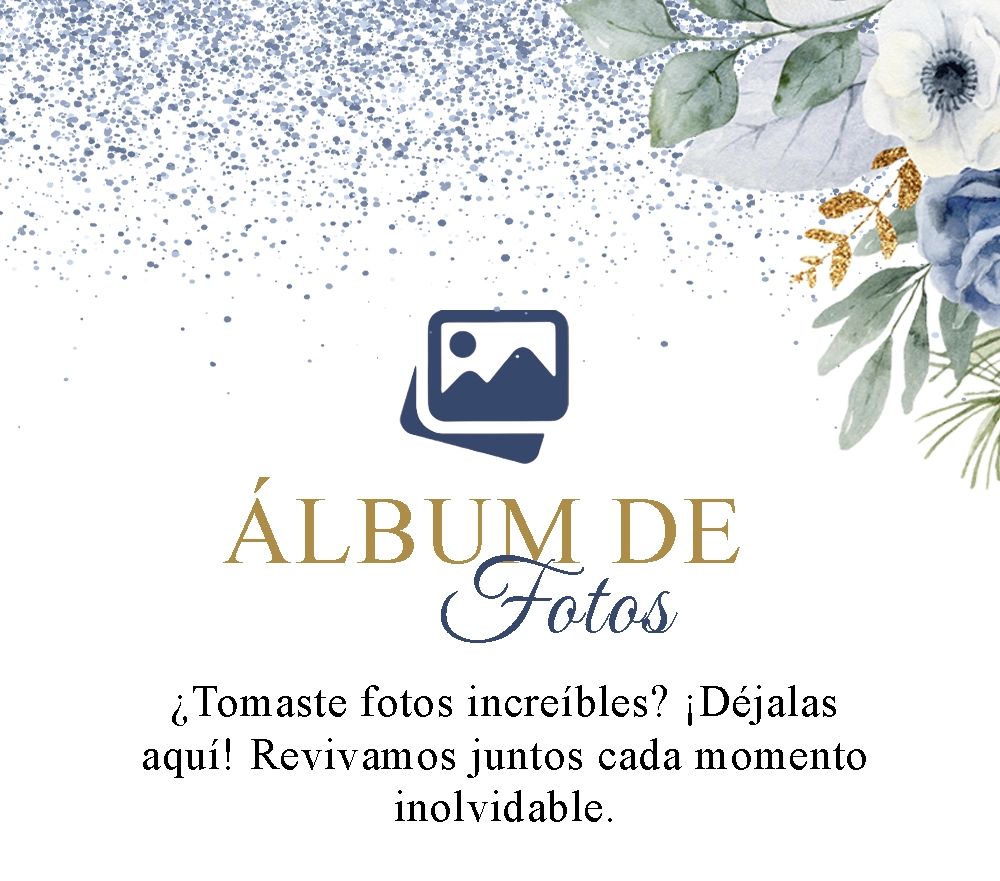
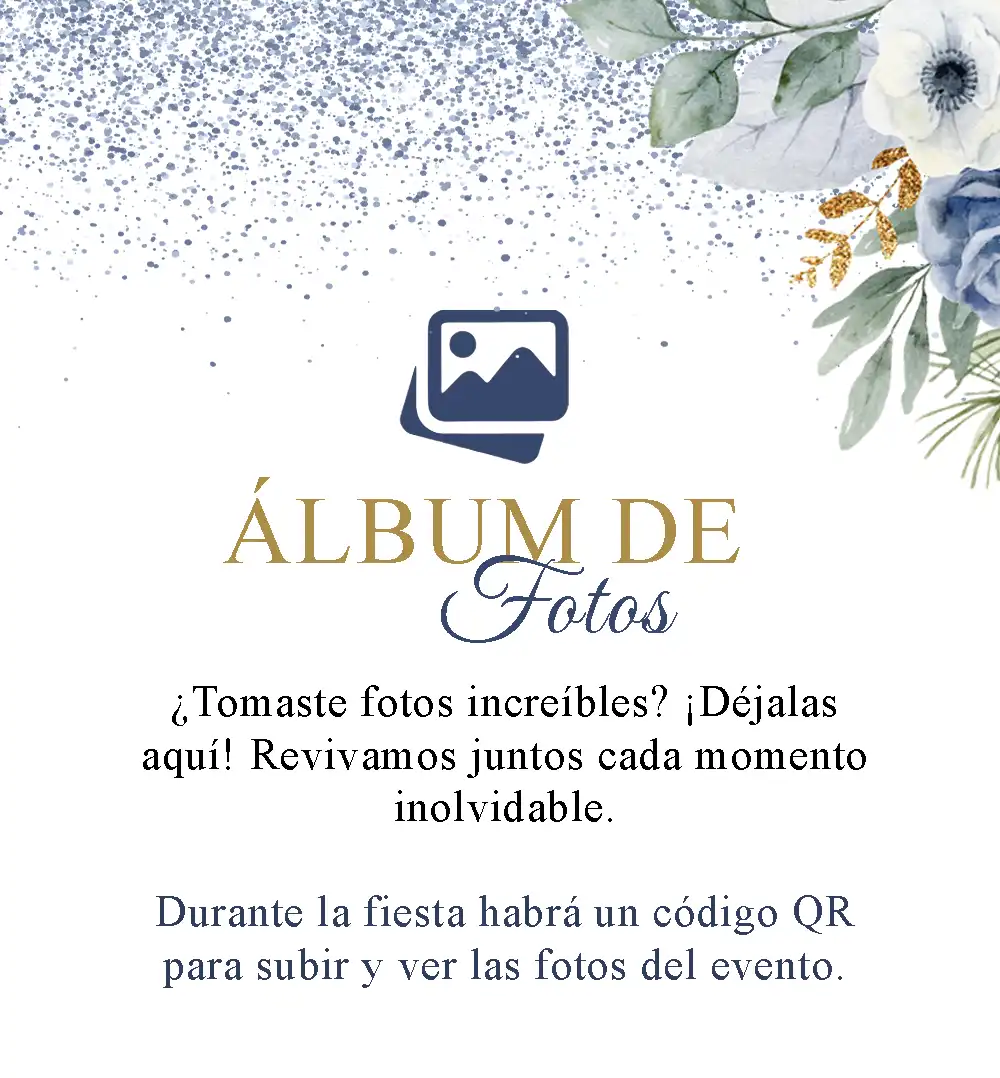
album

diff --git a/novaly/index.html b/novaly/index.html
@@ -967,6 +967,10 @@ html, body {
   <img src="img/Sin título-7 copia.webp" alt="Imagen inferior">
 </div>
 
+<div class="imagen-abajo">
+  <img src="img/fotos.webp" alt="Imagen inferior">
+</div>
+
 <div class="imagen-abajo seccion">
   <img src="xv/Gemini_Generated_Image_nizkkinizkkinizk copia.webp" alt="Imagen inferior">
 </div>
